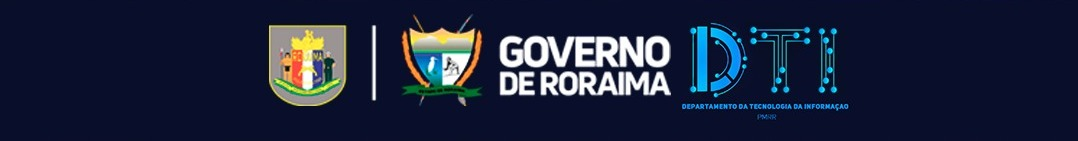
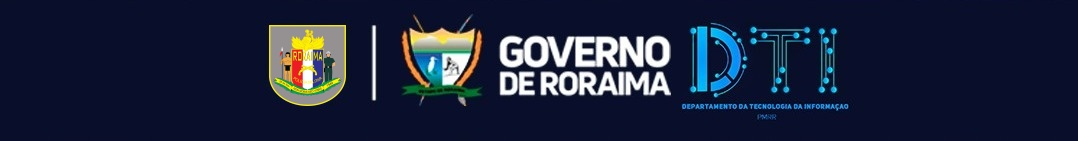
Troca o brasão da PMRR pelo novo em todas as imagens do app

Changed region(s): [[0.2449, 0.227, 0.3367, 0.766], [0.2449, 0.1702, 0.3367, 0.1986]]

diff --git a/APRENDIZADOS.md b/APRENDIZADOS.md
@@ -1404,3 +1404,31 @@ sair da conta e entrar de novo.
 
 **Enquanto a versão nova não chega:** quem teve dado trocado no SIGRH precisa
 tocar em Sair e entrar de novo.
+
+---
+
+## 40. Brasão novo da PMRR (21/10/2026)
+
+O usuário mandou o brasão novo (JPEG 1520×1600, fundo branco, "1944" na
+faixa; o antigo dizia "1975"). O fundo branco de fora foi tirado com OpenCV
+(`floodFill` a partir dos quatro cantos com `FLOODFILL_FIXED_RANGE`: sem ele, a
+comparação ia de vizinho em vizinho e atravessava para o cinza e o verde do
+escudo). Os brancos de dentro (faixa da bandeira, capacete) ficam, porque não
+tocam a borda.
+
+**Onde foi trocado.**
+- **API (no ar na hora, sem versão do app):** `sigrh/certidoes/assets/brasao_pmrr.png`
+  (cabeçalho e marca d'água das certidões, 380×400), `brasao_pmrr_pb.png` e
+  `sigrh/img/brasao-pmrr.png` (todos os e-mails e a página do QR, 152×160).
+  Backups em `/backups_api/*.bak-20261021-v1`. Leitor de e-mail que guarda
+  imagem em cache (Gmail) pode mostrar o antigo por um tempo.
+- **App (próxima versão):** `pmrrr.png` (marca d'água do PDF do contracheque),
+  `logo_pmrr.png`, `pmrr.png` e o brasão pequeno dentro das montagens
+  `rodape_marcas.png` (login), `entradacapa.png` (abertura) e `dti.jpeg`
+  (rodapé da Início). Nas montagens, o antigo foi apagado com `cv2.inpaint`
+  (fundo reconstruído) e o novo colado na mesma caixa.
+
+**Fica de fora (não é arquivo nosso):** as artes dos cards dos comandantes e do
+anúncio vêm do Firestore (`stores`, `appConfig/anuncio`) e trazem o brasão
+desenhado nelas; trocar a arte é com quem as produz. A intranet tem as próprias
+imagens.
